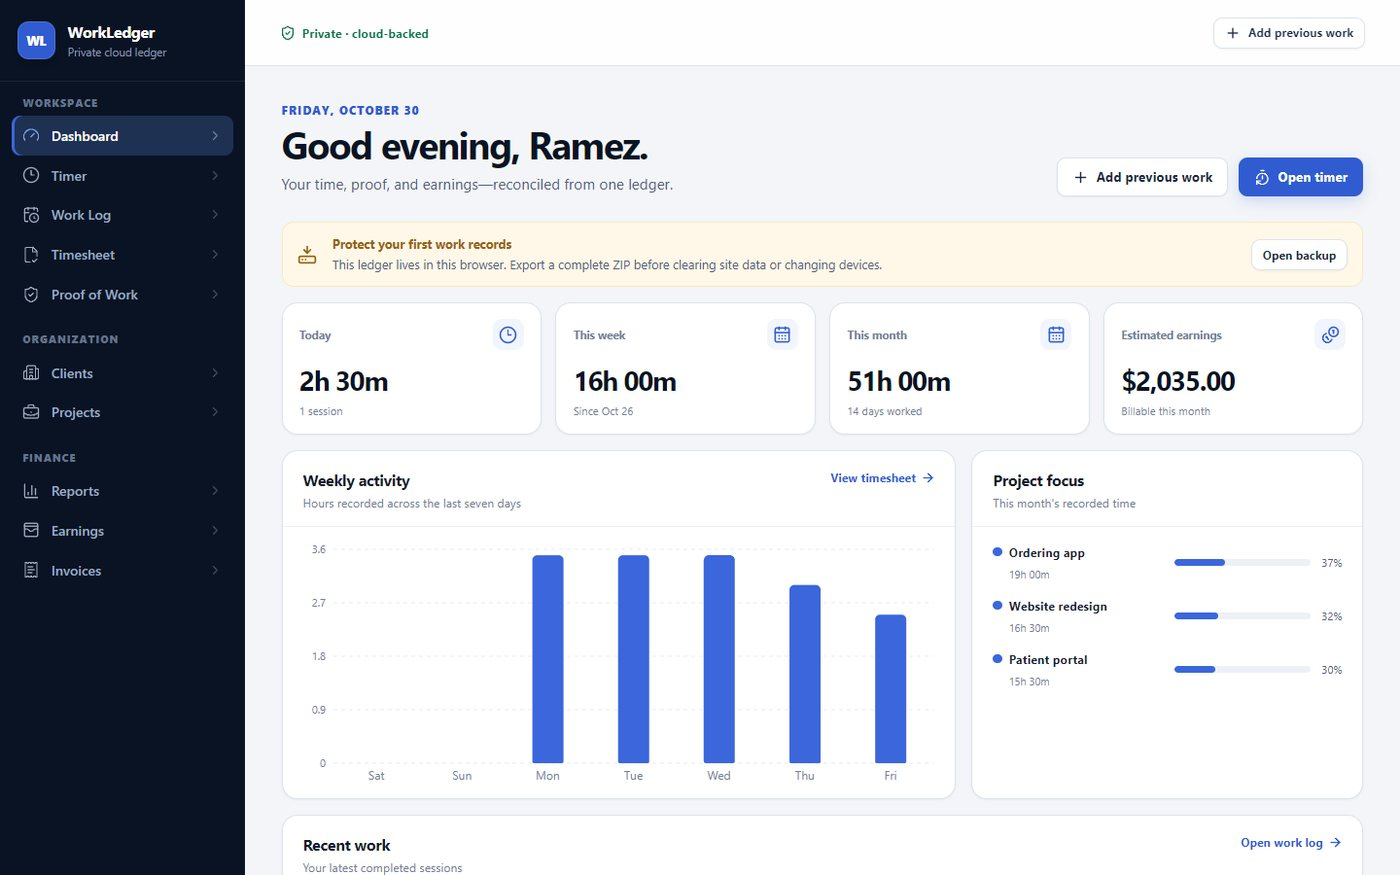
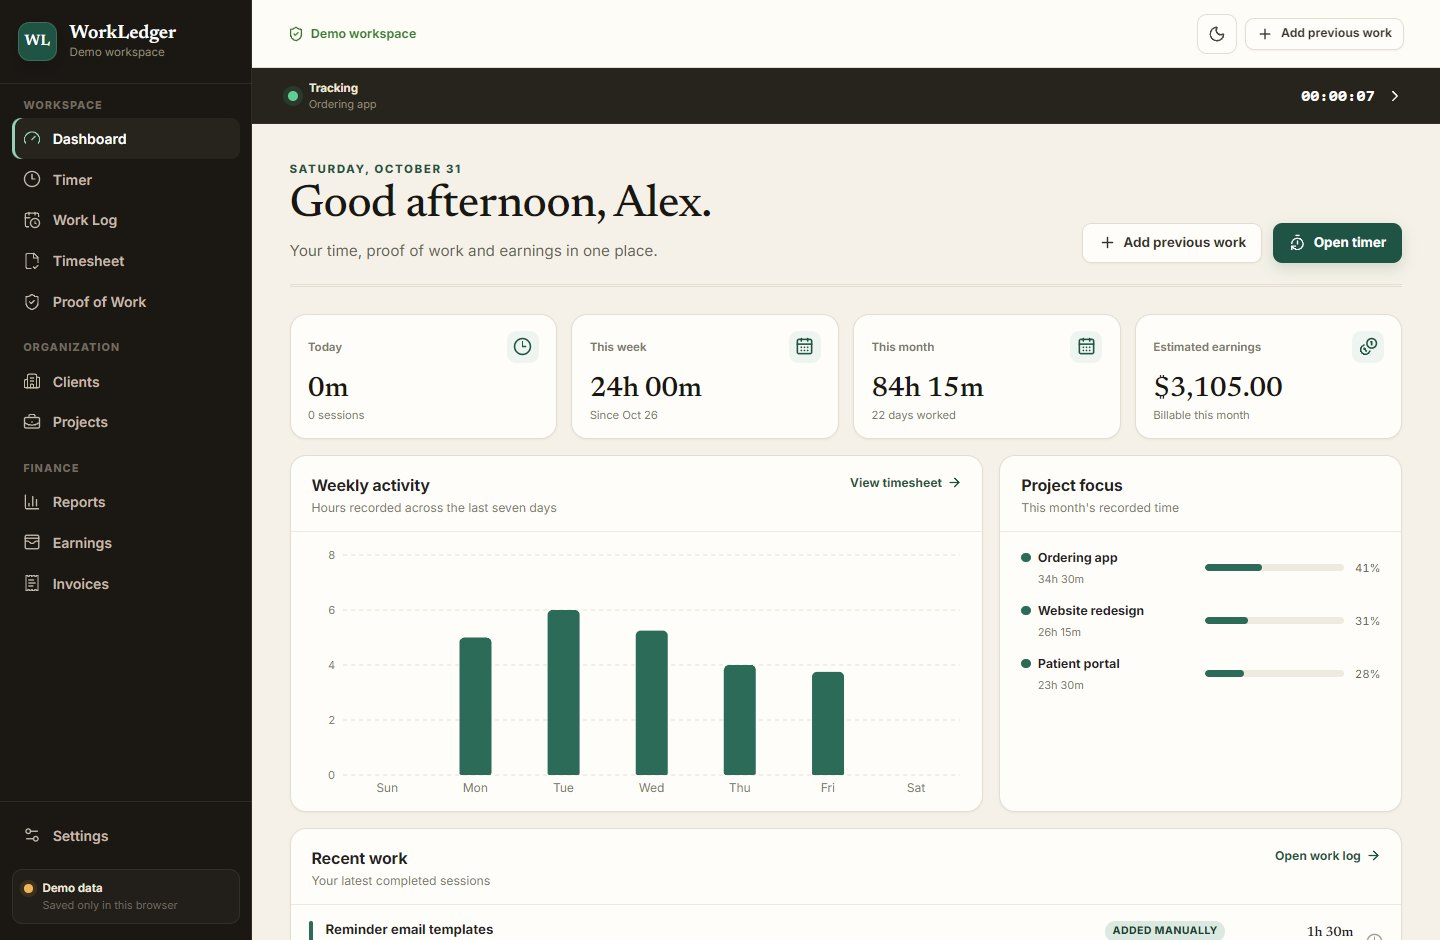
Plain-language text across pages, new screenshots and demo docs

diff --git a/src/features/timer/TimerPage.tsx b/src/features/timer/TimerPage.tsx
@@ -92,7 +92,7 @@ export function TimerPage(): React.JSX.Element {
       <PageHeader
         eyebrow="Live tracking"
         title="Timer"
-        description="Track exact work segments. Pauses, reloads, and browser restarts never rely on ticking memory."
+        description="Start, pause and stop with confidence: the timer keeps exact time even if you reload or close the browser."
         actions={
           <Button
             variant="secondary"
@@ -267,7 +267,7 @@ export function TimerPage(): React.JSX.Element {
           ) : (
             <EmptyState
               title="Create a project before tracking"
-              description="A project supplies the timezone, currency, and hourly-rate snapshot for every session."
+              description="Each project sets the time zone, currency and hourly rate for the work you track on it."
               action={
                 <Link
                   className="button button--primary button--md"
@@ -309,7 +309,7 @@ export function TimerPage(): React.JSX.Element {
         ) : (
           <EmptyState
             title="No completed sessions today"
-            description="Stopped timers appear here immediately. An active timer remains visible across every route."
+            description="Stopped timers show up here right away. A running timer stays visible on every page."
           />
         )}
       </section>

diff --git a/src/features/sessions/WorkLogPage.tsx b/src/features/sessions/WorkLogPage.tsx
@@ -73,9 +73,9 @@ export function WorkLogPage(): React.JSX.Element {
   return (
     <div className="page">
       <PageHeader
-        eyebrow="Canonical records"
+        eyebrow="Records"
         title="Work Log"
-        description="Every completed session, grouped by its stable local work date."
+        description="Every finished session, grouped by the day you did the work."
         actions={
           <Button onClick={() => openDialog("previous-work")}>
             <Plus size={17} /> Add previous work
@@ -117,9 +117,9 @@ export function WorkLogPage(): React.JSX.Element {
             onChange={(event) => setSource(event.target.value)}
           >
             <option value="">All sources</option>
-            <option value="tracked">Tracked</option>
-            <option value="manual_range">Manual range</option>
-            <option value="manual_duration">Manual duration</option>
+            <option value="tracked">Timer</option>
+            <option value="manual_range">Added manually</option>
+            <option value="manual_duration">Added as hours</option>
           </select>
         </label>
         <label>

diff --git a/src/features/sessions/TimesheetPage.tsx b/src/features/sessions/TimesheetPage.tsx
@@ -5,6 +5,7 @@ import { useOutletContext } from "react-router-dom";
 import { Badge, EmptyState, PageHeader } from "@/components/ui";
 import {
   formatDuration,
+  sourceLabel,
   formatMoney,
   sessionAmountMinor,
 } from "@/domain/format";
@@ -47,7 +48,7 @@ export function TimesheetPage(): React.JSX.Element {
       <PageHeader
         eyebrow="Review"
         title="Timesheet"
-        description="A dense, filterable view of the same canonical work sessions."
+        description="Every work session in one table. Filter by date or project."
       />
       <section className="filter-bar" aria-label="Timesheet filters">
         <span className="filter-bar__icon">
@@ -149,7 +150,7 @@ export function TimesheetPage(): React.JSX.Element {
                         <Badge
                           tone={session.source === "tracked" ? "green" : "blue"}
                         >
-                          {session.source.replaceAll("_", " ")}
+                          {sourceLabel(session.source)}
                         </Badge>
                       </td>
                       <td data-label="Duration" className="numeric">

diff --git a/src/features/evidence/ProofPage.tsx b/src/features/evidence/ProofPage.tsx
@@ -86,9 +86,9 @@ export function ProofPage(): React.JSX.Element {
   return (
     <div className="page">
       <PageHeader
-        eyebrow="Private evidence"
+        eyebrow="Proof"
         title="Proof of Work"
-        description="Screenshots, files, and links stay beside the work they support and sync privately across your devices."
+        description="Screenshots, files and links kept next to the work they prove."
         actions={
           <Button onClick={() => openDialog("add-evidence")}>
             <Plus size={17} /> Add proof

diff --git a/src/domain/format.ts b/src/domain/format.ts
@@ -2,6 +2,13 @@ import { formatInTimeZone } from "date-fns-tz";
 
 import type { WorkSession } from "@/domain/models";
 
+/** How a session was recorded, in plain words. */
+export function sourceLabel(source: WorkSession["source"]): string {
+  if (source === "tracked") return "Timer";
+  if (source === "manual_range") return "Added manually";
+  return "Added as hours";
+}
+
 export function normalizeName(value: string): string {
   return value
     .normalize("NFKC")

diff --git a/src/components/SessionRow.tsx b/src/components/SessionRow.tsx
@@ -29,7 +29,7 @@ export function SessionRow({
   const amount = sessionAmountMinor(session);
   const sourceLabel =
     session.source === "tracked"
-      ? "Tracked"
+      ? "Timer"
       : session.source === "manual_range"
         ? "Added manually"
         : "Added as hours";

diff --git a/src/styles.css b/src/styles.css
@@ -2754,6 +2754,7 @@ input[type="checkbox"] {
   letter-spacing: 0;
 }
 .metric-card > strong,
+.timesheet-summary strong,
 .session-row__numbers strong,
 .report-summary strong,
 .entity-card__stats strong,

diff --git a/README.md b/README.md
@@ -4,9 +4,12 @@
 
 WorkLedger is a private cloud-backed work tracking application for hourly contractors. It records live and historical work, keeps proof of work beside the time it supports, calculates earnings, and produces professional invoices and work-activity reports.
 
-**Case study:** https://ramezgamel01.github.io/case-workledger.html
+**[Try the live demo](https://ramezgamel01.github.io/workledger/)** with sample data (nothing leaves your browser) · [Read the case study](https://ramezgamel01.github.io/case-workledger.html)
 
-![WorkLedger dashboard](docs/screenshots/dashboard.jpg)
+<picture>
+  <source media="(prefers-color-scheme: dark)" srcset="docs/screenshots/dashboard-dark.jpg">
+  <img alt="WorkLedger dashboard" src="docs/screenshots/dashboard.jpg">
+</picture>
 
 | Timesheet                                    | Earnings                                   | Invoices                                   |
 | -------------------------------------------- | ------------------------------------------ | ------------------------------------------ |
@@ -83,6 +86,15 @@ Client → Project → Work Session → Evidence
 ```bash
 pnpm install
 pnpm dev
+```
+
+The public demo is a static build of the same app: sample data is seeded in the
+browser, cloud sync is off, and a Reset button restores the sample data. The
+Demo workflow publishes it to GitHub Pages on every push to `main`.
+
+```bash
+pnpm dev:demo     # demo with hot reload
+pnpm build:demo   # static build in dist-demo/
 ```
 
 Quality gates:
